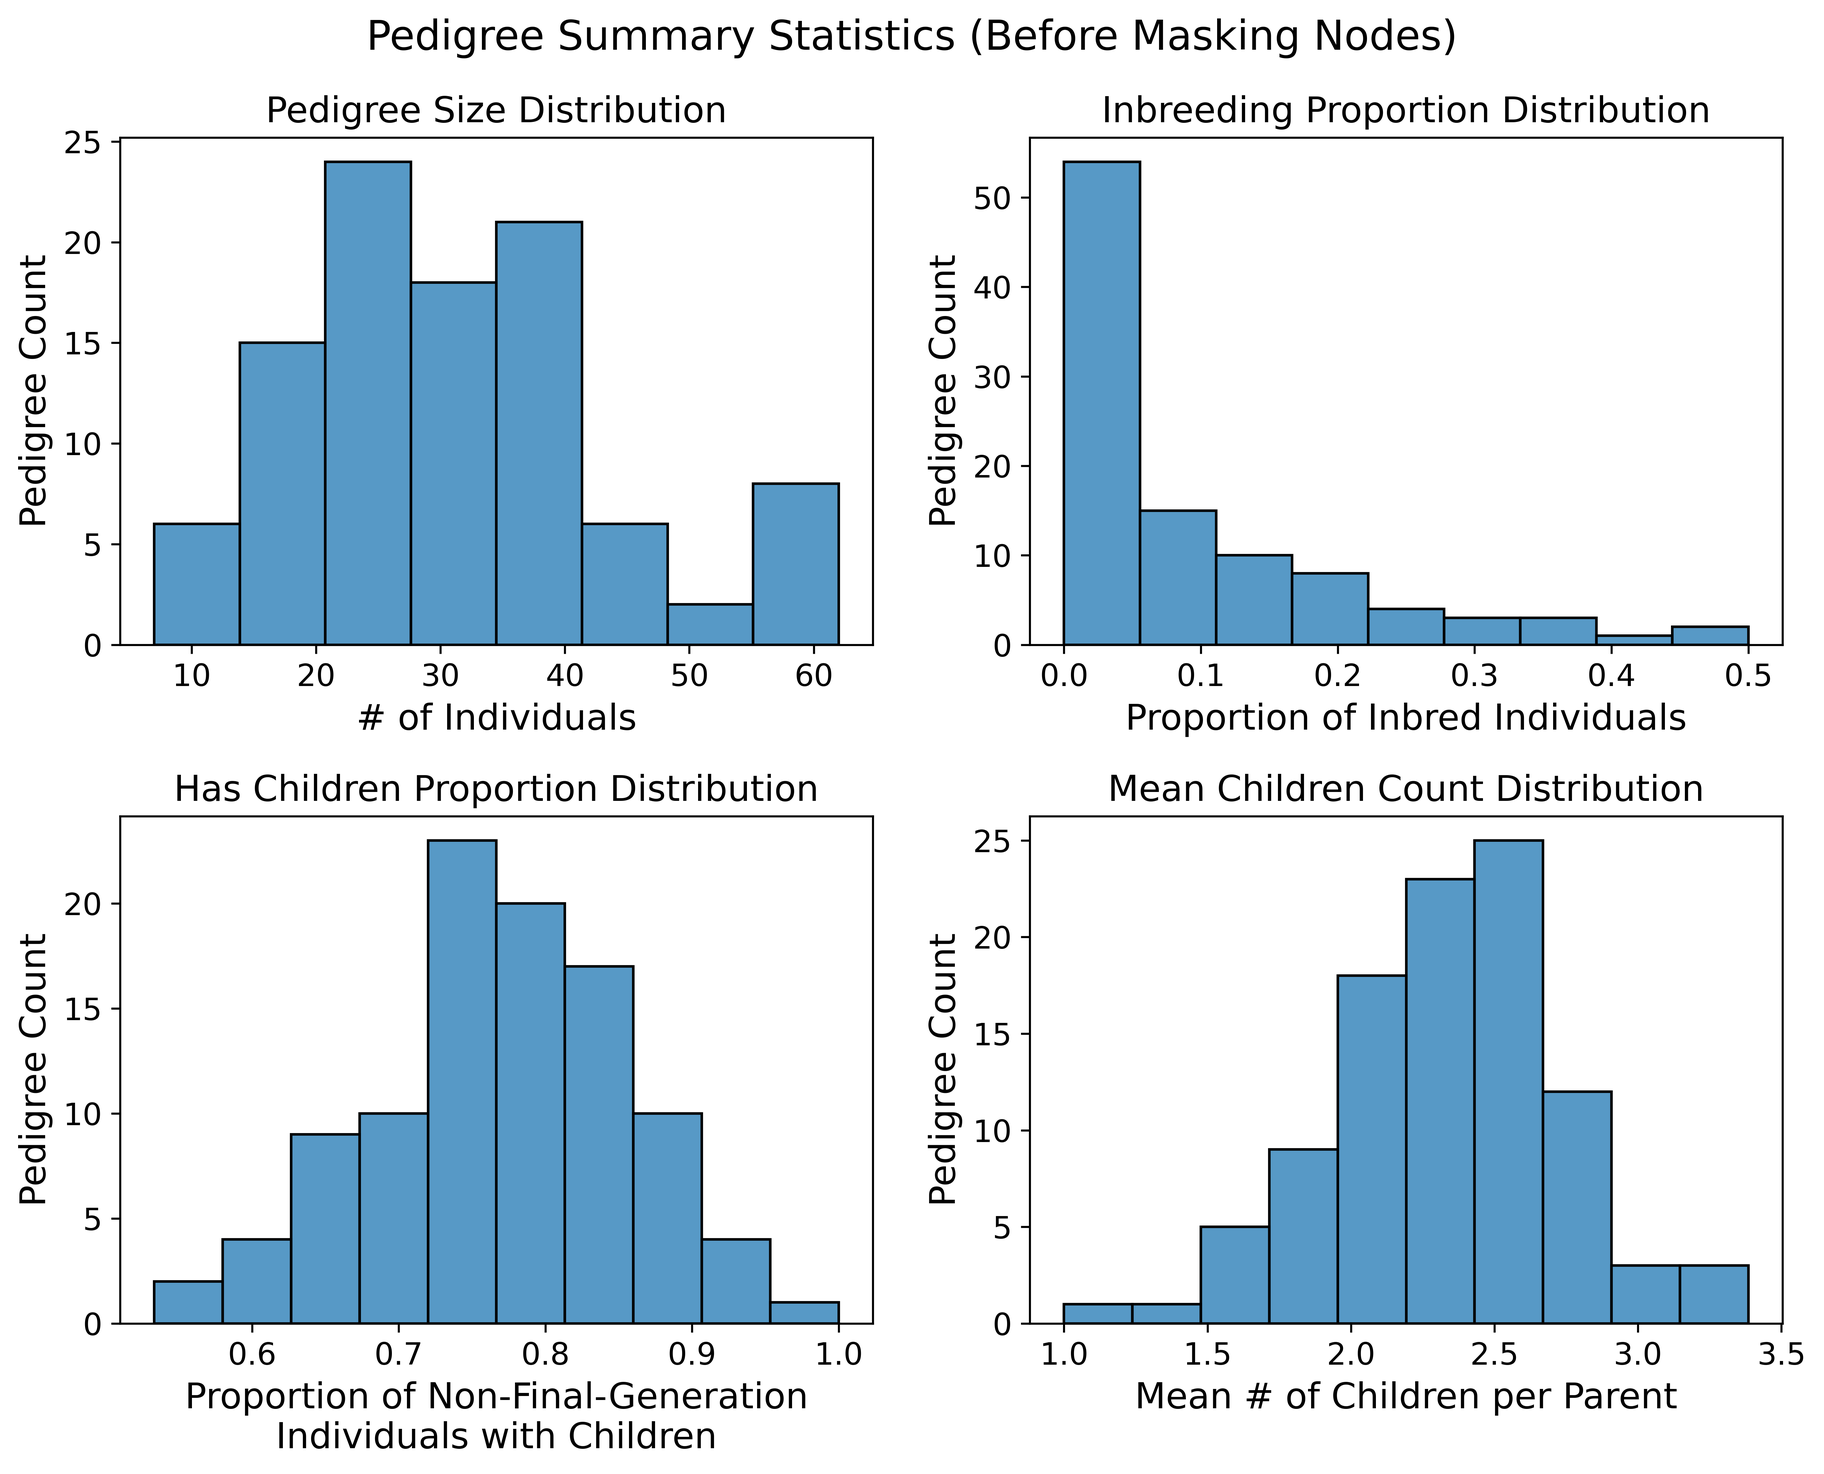
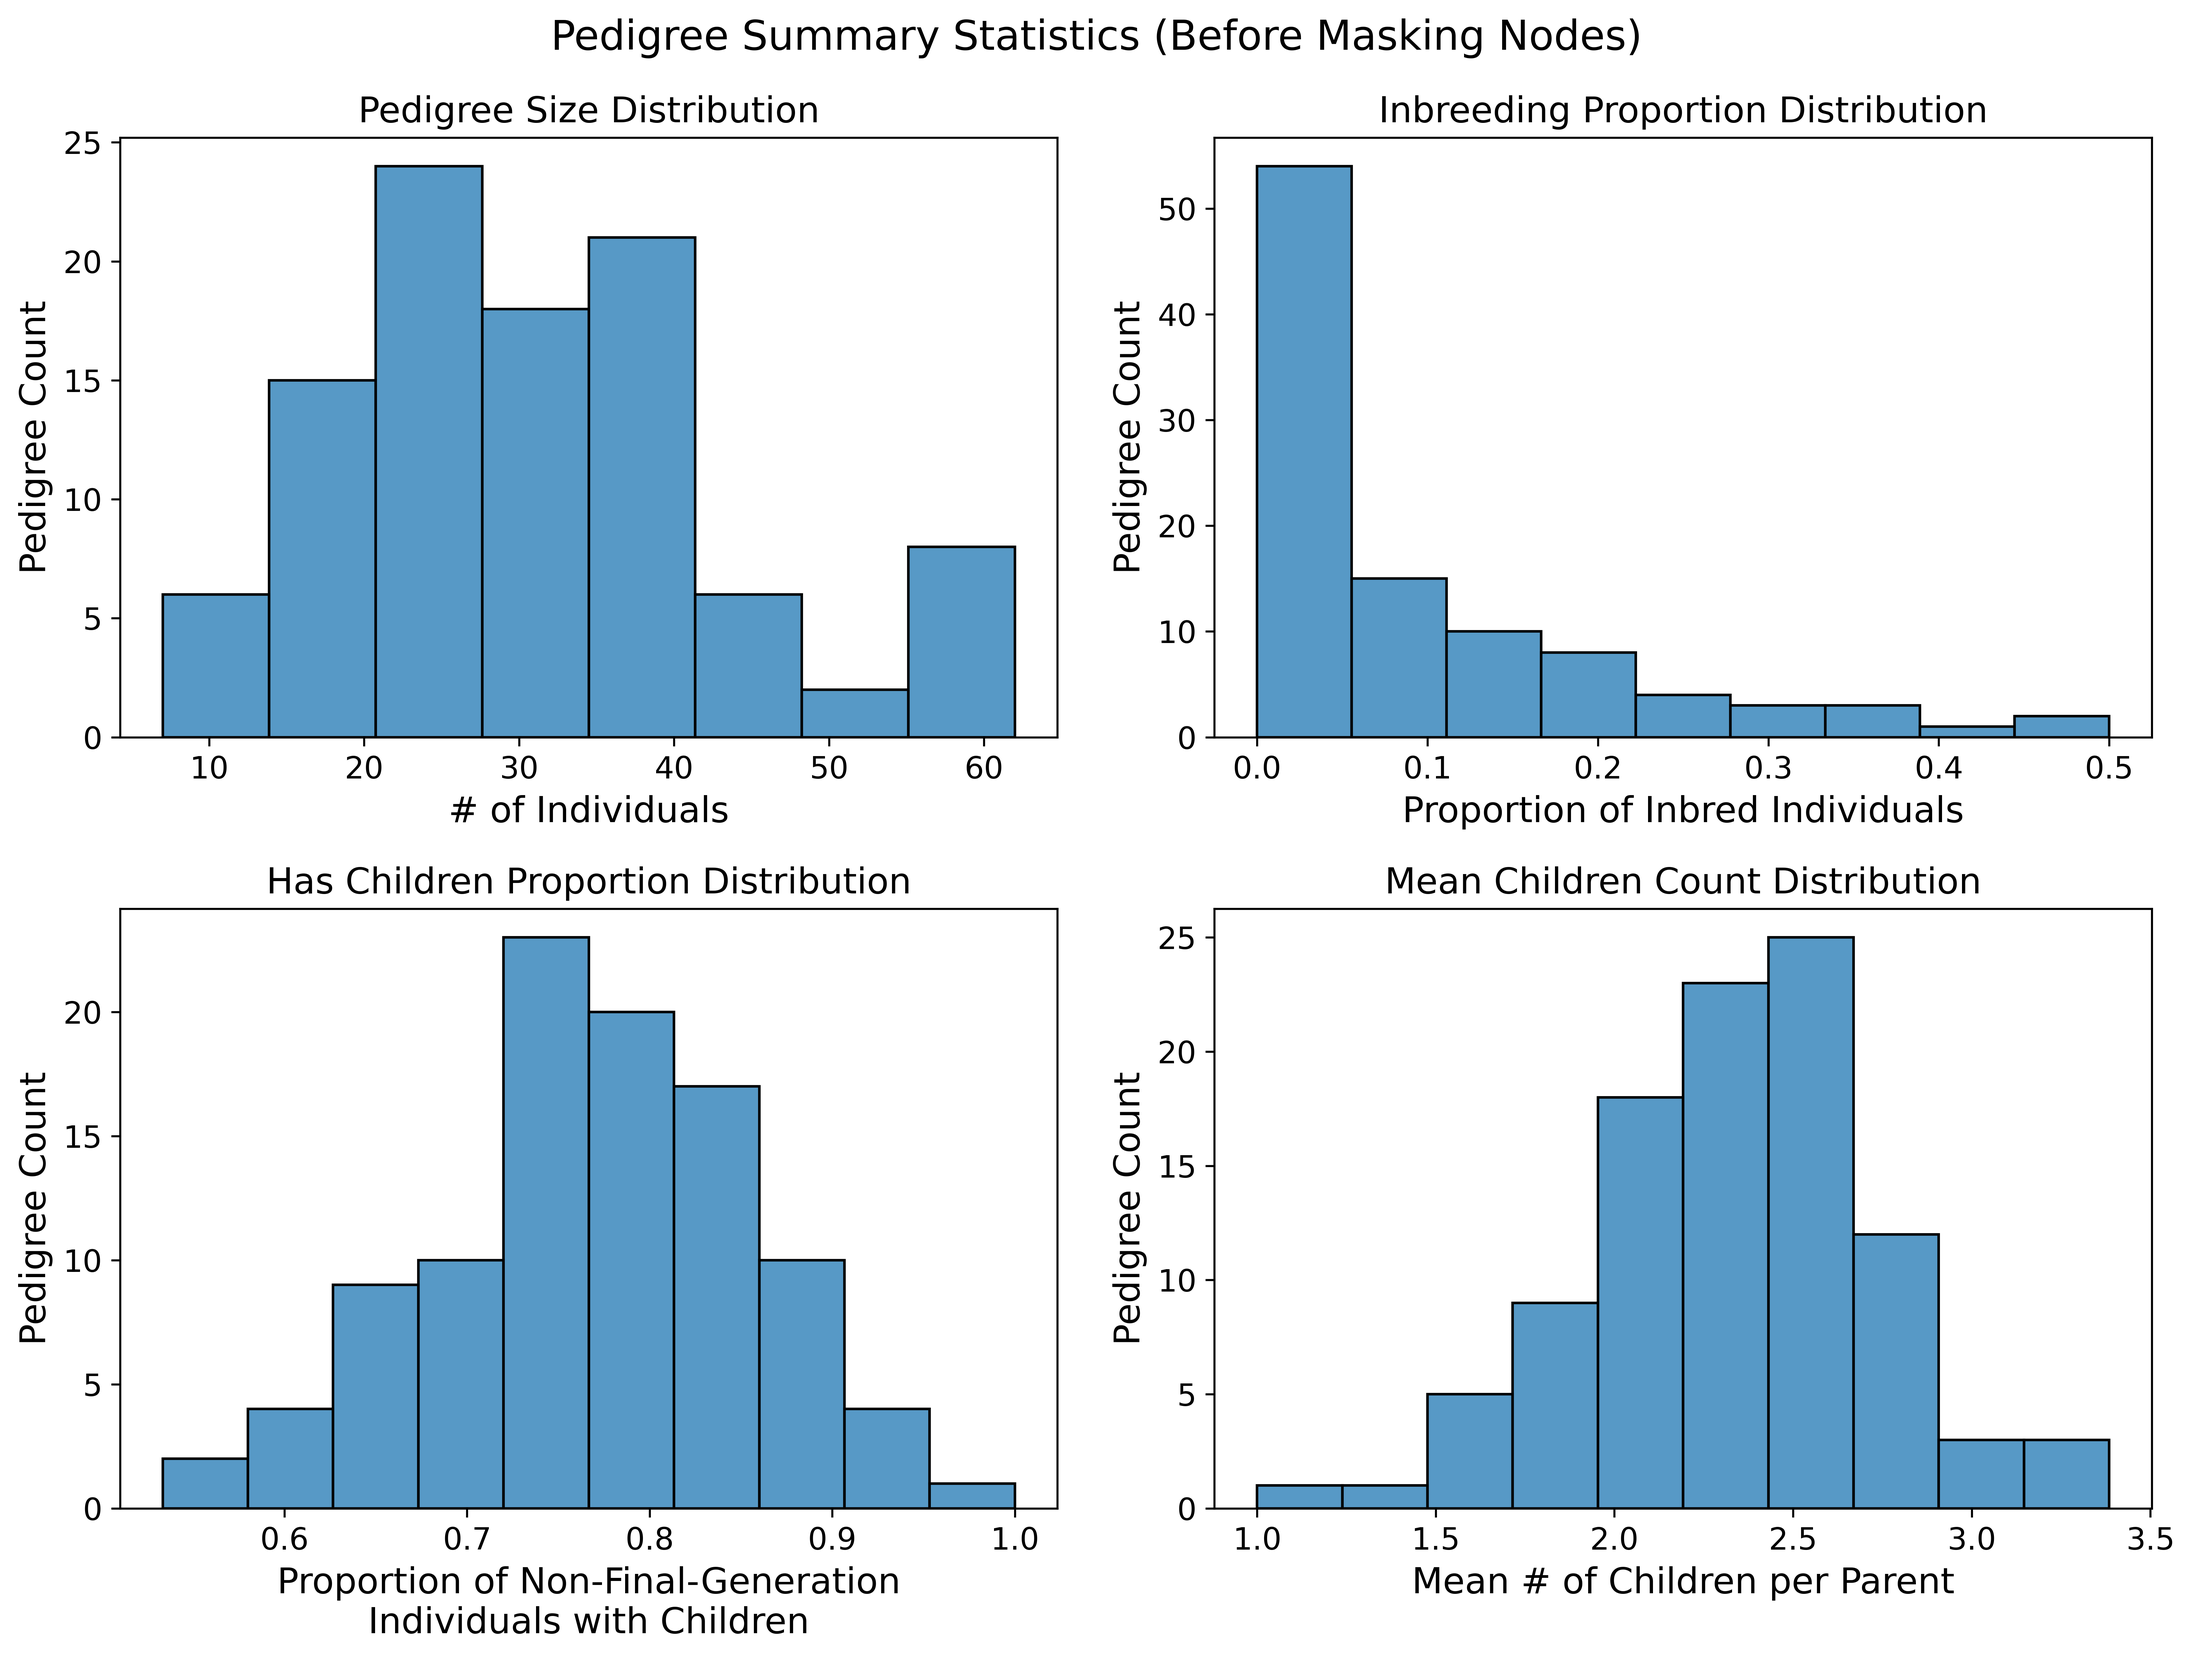
Adjust summary statistics plot sizing

diff --git a/benchmarks/simulations/plot_parameter_data.py b/benchmarks/simulations/plot_parameter_data.py
@@ -23,7 +23,7 @@ def plot_pedigree_summary_statistics(results_dir: str) -> None:
             "figure.constrained_layout.w_pad": 0.15,
         }
     ):
-        fig, axes = plt.subplots(2, 2, figsize=(10, 8), constrained_layout=True)
+        fig, axes = plt.subplots(2, 2, figsize=(12, 9), constrained_layout=True)
         axes = axes.flatten()
 
         plt.suptitle("Pedigree Summary Statistics (Before Masking Nodes)", fontsize=16)
